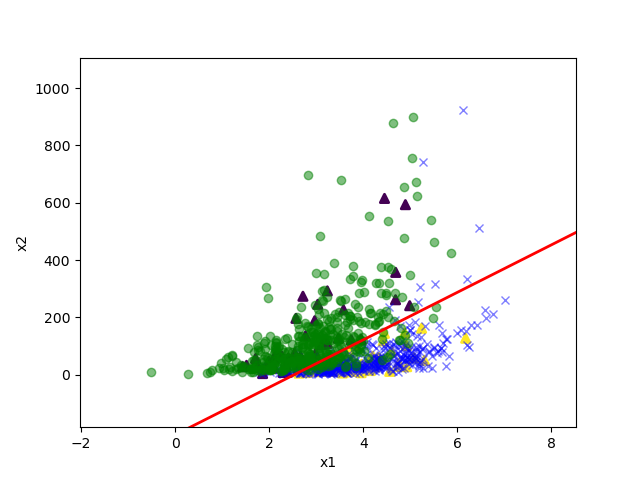
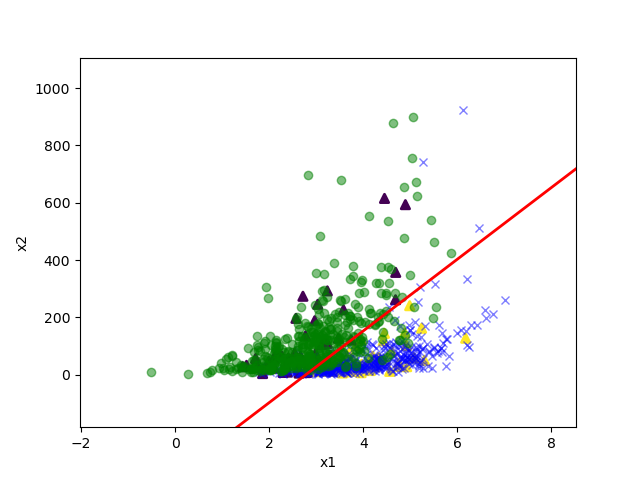
modified logistic regression

diff --git a/Problem Set 1/code/src/run.py b/Problem Set 1/code/src/run.py
@@ -7,4 +7,4 @@ parser.add_argument('p_num', nargs='?', type=int, default=0,
 args = parser.parse_args()
 
 p01b(train_path='../data/ds1_train.csv', eval_path='../data/ds1_valid.csv',
-     pred_path='output/p01b_pred_1.txt')
+     pred_path='output/p01b_pred_1.csv')

diff --git a/Problem Set 1/code/src/p01b_logreg.py b/Problem Set 1/code/src/p01b_logreg.py
@@ -56,7 +56,7 @@ class LogisticRegression(LinearModel):
             if np.linalg.norm(step, ord=1) < self.eps: break
             else:
                 self.theta -= step
-
+            n_iter += 1
         
         # *** END CODE HERE ***
 

diff --git a/Problem Set 1/code/src/util.py b/Problem Set 1/code/src/util.py
@@ -92,5 +92,6 @@ def plot(x, y, theta, save_path, correction=1.0, x_eval=[], y_pred=[]):
     plt.savefig(save_path)
 
 
+## sigmoid function to compute logistic hypothetical function
 def sigmoid(z):
     return 1 / (1 + np.exp(-z))
